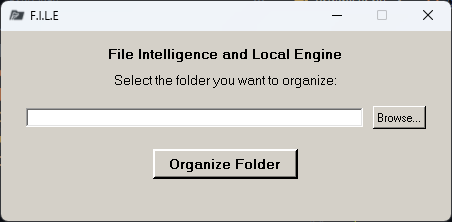
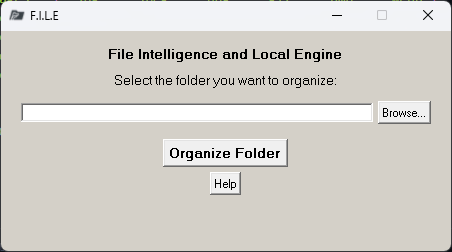
UI updated

diff --git a/organiser.py b/organiser.py
@@ -1,118 +1,179 @@
-import os
+from pathlib import Path
+from collections import Counter
 import shutil
 import tkinter as tk
 from tkinter import filedialog, messagebox
 
 FILE_TYPES = {
-    "Videos": [".mp4", ".mkv", ".avi", ".mov", ".flv"],
-    "PDFs": [".pdf"],
-    "Images": [".jpg", ".jpeg", ".png", ".gif", ".bmp"],
-    "Documents": [".docx", ".doc", ".txt", ".rtf"],
-    "Excel": [".xlsx", ".xls", ".csv"],
-    "Audio": [".mp3", ".wav", ".aac"],
-    "Archives": [".zip", ".rar", ".7z"]
+    "Videos": {".mp4", ".mkv", ".avi", ".mov", ".flv"},
+    "PDFs": {".pdf"},
+    "Images": {".jpg", ".jpeg", ".png", ".gif", ".bmp", ".webp"},
+    "Documents": {".doc", ".docx", ".txt", ".rtf"},
+    "Excel": {".xls", ".xlsx", ".csv"},
+    "Audio": {".mp3", ".wav", ".aac", ".flac"},
+    "Archives": {".zip", ".rar", ".7z", ".tar", ".gz"},
 }
 
+EXTENSION_MAP = {
+    ext: category
+    for category, extensions in FILE_TYPES.items()
+    for ext in extensions
+}
+
+WINDOW_WIDTH = 450
+WINDOW_HEIGHT = 220
+
+
 def browse_folder():
-    folder_selected = filedialog.askdirectory()
-    if folder_selected:
+    folder = filedialog.askdirectory()
+    if folder:
         path_entry.delete(0, tk.END)
-        path_entry.insert(0, folder_selected)
+        path_entry.insert(0, folder)
+
+
+def unique_destination(path: Path) -> Path:
+    if not path.exists():
+        return path
+
+    stem = path.stem
+    suffix = path.suffix
+    parent = path.parent
+    counter = 1
+
+    while True:
+        candidate = parent / f"{stem} ({counter}){suffix}"
+        if not candidate.exists():
+            return candidate
+        counter += 1
+
 
 def organize_folder():
-    target_path = path_entry.get().strip()
-    
-    if not target_path or not os.path.exists(target_path):
-        messagebox.showerror("Error", "Please select a valid folder path.")
+    folder = Path(path_entry.get().strip())
+
+    if not folder.is_dir():
+        messagebox.showerror("Error", "Please select a valid folder.")
         return
 
-    try:
-        moved_count = 0
-        for file in os.listdir(target_path):
-            full_file_path = os.path.join(target_path, file)
-            
-            if os.path.isfile(full_file_path):
-                _, file_extension = os.path.splitext(file)
-                file_extension = file_extension.lower()
+    organize_btn.config(state="disabled")
+    root.update_idletasks()
 
-                for folder_name, extensions in FILE_TYPES.items():
-                    if file_extension in extensions:
-                        destination_folder = os.path.join(target_path, folder_name)
-                        
-                        if not os.path.exists(destination_folder):
-                            os.makedirs(destination_folder)
-                        
-                        shutil.move(full_file_path, os.path.join(destination_folder, file))
-                        moved_count += 1
-                        break
-        
-        messagebox.showinfo("Success", f"Done! Successfully organized {moved_count} files.")
-        
-    except Exception as e:
-        messagebox.showerror("Error", f"An error occurred: {str(e)}")
+    moved = 0
+    skipped = 0
+    stats = Counter()
+
+    for item in folder.iterdir():
+        if item.is_dir():
+            continue
+
+        category = EXTENSION_MAP.get(item.suffix.lower())
+
+        if category is None:
+            skipped += 1
+            continue
+
+        try:
+            destination_folder = folder / category
+            destination_folder.mkdir(exist_ok=True)
+
+            destination = unique_destination(destination_folder / item.name)
+            shutil.move(str(item), str(destination))
+
+            moved += 1
+            stats[category] += 1
+
+        except Exception:
+            skipped += 1
+
+    organize_btn.config(state="normal")
+
+    lines = [f"{name:<12}: {stats[name]}" for name in FILE_TYPES if stats[name]]
+
+    summary = (
+        "Organization Complete\n\n"
+        + "\n".join(lines)
+        + f"\n\nMoved   : {moved}"
+        + f"\nSkipped : {skipped}"
+    )
+
+    messagebox.showinfo("F.I.L.E.", summary)
+
 
 root = tk.Tk()
-root.iconbitmap("assets/app_icon.ico")
+
+try:
+    root.iconbitmap("assets/app_icon.ico")
+except Exception:
+    pass
+
 root.title("F.I.L.E")
-root.geometry("450x190")
 root.resizable(False, False)
 root.configure(bg="#D4D0C8")
 
-header_label = tk.Label(
-    root, 
-    text="File Intelligence and Local Engine", 
-    font=("MS Sans Serif", 11, "bold"), 
-    bg="#D4D0C8", 
-    fg="#000000"
-)
-header_label.pack(pady=(12, 2))
+screen_w = root.winfo_screenwidth()
+screen_h = root.winfo_screenheight()
 
-label = tk.Label(
-    root, 
-    text="Select the folder you want to organize:", 
-    font=("MS Sans Serif", 10), 
-    bg="#D4D0C8", 
-    fg="#000000"
-)
-label.pack(pady=(2, 10))
+x = (screen_w - WINDOW_WIDTH) // 2
+y = (screen_h - WINDOW_HEIGHT) // 2
+
+root.geometry(f"{WINDOW_WIDTH}x{WINDOW_HEIGHT}+{x}+{y}")
+
+tk.Label(
+    root,
+    text="File Intelligence and Local Engine",
+    font=("MS Sans Serif", 11, "bold"),
+    bg="#D4D0C8",
+).pack(pady=(12, 2))
+
+tk.Label(
+    root,
+    text="Select the folder you want to organize:",
+    font=("MS Sans Serif", 10),
+    bg="#D4D0C8",
+).pack(pady=(2, 10))
 
 frame = tk.Frame(root, bg="#D4D0C8")
-frame.pack(pady=5, fill='x', padx=20)
+frame.pack(fill="x", padx=20)
 
 path_entry = tk.Entry(
-    frame, 
-    width=40, 
-    font=("MS Sans Serif", 9), 
-    bd=2, 
-    relief="sunken"
+    frame,
+    font=("MS Sans Serif", 9),
+    bd=2,
+    relief="sunken",
 )
-path_entry.pack(side=tk.LEFT, padx=5, expand=True, fill='x')
+path_entry.pack(side="left", fill="x", expand=True, padx=(0, 5))
 
-browse_btn = tk.Button(
-    frame, 
-    text="Browse...", 
-    command=browse_folder, 
-    font=("MS Sans Serif", 9), 
-    bg="#D4D0C8", 
-    fg="#000000", 
-    bd=2, 
-    relief="raised", 
-    activebackground="#D4D0C8"
-)
-browse_btn.pack(side=tk.RIGHT, padx=5)
+tk.Button(
+    frame,
+    text="Browse...",
+    command=browse_folder,
+    font=("MS Sans Serif", 9),
+).pack(side="right")
 
 organize_btn = tk.Button(
-    root, 
-    text="Organize Folder", 
-    command=organize_folder, 
-    font=("MS Sans Serif", 10, "bold"), 
-    bg="#D4D0C8", 
-    fg="#000000", 
-    bd=3, 
-    relief="raised", 
-    activebackground="#D4D0C8", 
-    padx=10
+    root,
+    text="Organize Folder",
+    command=organize_folder,
+    font=("MS Sans Serif", 10, "bold"),
 )
-organize_btn.pack(pady=15)
+organize_btn.pack(pady=(15, 5))
+
+
+def show_help():
+    messagebox.showinfo(
+        "F.I.L.E. Help",
+        "• Click Browse... and select a folder.\n"
+        "• Click Organize Folder.\n"
+        "• Files are sorted into folders based on type.\n"
+        "• Unknown file types are left unchanged.\n"
+        "• Existing files are never overwritten.",
+    )
+
+
+tk.Button(
+    root,
+    text="Help",
+    command=show_help,
+    font=("MS Sans Serif", 9),
+).pack()
 
 root.mainloop()